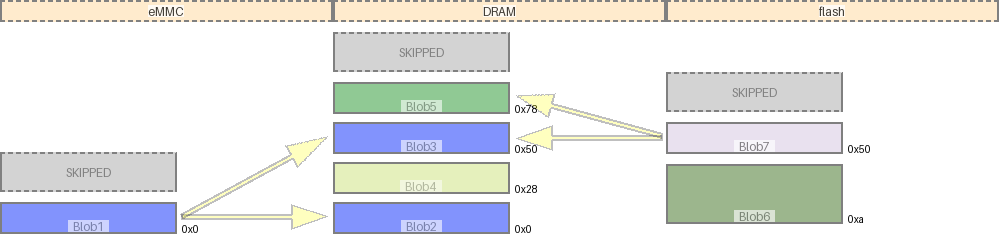
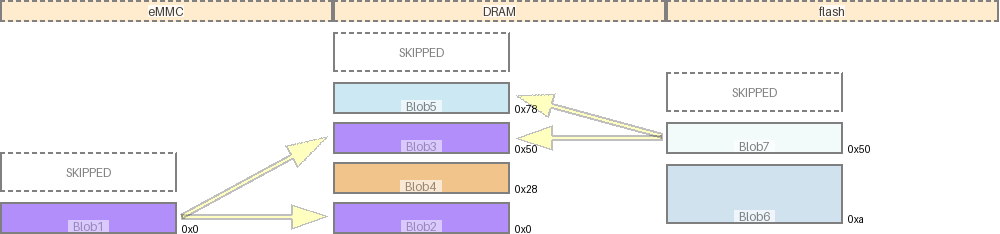
changed void default bgcolour to white

diff --git a/mm/metamodel.py b/mm/metamodel.py
@@ -113,7 +113,7 @@ class Diagram(ConfigParent):
     ] 
     void_fill_colour: Annotated[
         str,
-        pydantic.Field("lightgrey", description="Fill colour for the void region blocks")
+        pydantic.Field("white", description="Fill colour for the void region blocks")
     ]
     void_line_colour: Annotated[
         str,

diff --git a/doc/example/test_generate_doc_example_three_maps.md b/doc/example/test_generate_doc_example_three_maps.md
@@ -1,10 +1,10 @@
 ![memory map diagram](test_generate_doc_example_three_maps_cropped.png)
 |name|origin|size|free Space|collisions
 |:-|:-|:-|:-|:-|
-|<span style='color:(58, 160, 66, 199)'>Blob5</span>|0x78|0x20|0x350|{}|
-|<span style='color:(32, 63, 251, 178)'>Blob3</span>|0x50|0x20|0x8|{}|
-|<span style='color:(154, 118, 182, 42)'>Blob7</span>|0x50|0x20|0x378|{}|
-|<span style='color:(203, 225, 123, 253)'>Blob4</span>|0x28|0x20|0x8|{}|
-|<span style='color:(60, 111, 31, 132)'>Blob6</span>|0xa|0x3c|0xa|{}|
-|<span style='color:(32, 63, 251, 178)'>Blob1</span>|0x0|0x20|0x3c8|{}|
-|<span style='color:(32, 63, 251, 178)'>Blob2</span>|0x0|0x20|0x8|{}|
+|<span style='color:(29, 157, 204, 44)'>Blob5</span>|0x78|0x20|0x350|{}|
+|<span style='color:(106, 38, 244, 244)'>Blob3</span>|0x50|0x20|0x8|{}|
+|<span style='color:(26, 173, 171, 10)'>Blob7</span>|0x50|0x20|0x378|{}|
+|<span style='color:(225, 133, 14, 120)'>Blob4</span>|0x28|0x20|0x8|{}|
+|<span style='color:(55, 135, 186, 46)'>Blob6</span>|0xa|0x3c|0xa|{}|
+|<span style='color:(106, 38, 244, 244)'>Blob1</span>|0x0|0x20|0x3c8|{}|
+|<span style='color:(106, 38, 244, 244)'>Blob2</span>|0x0|0x20|0x8|{}|

diff --git a/doc/example/test_generate_doc_example_two_maps.md b/doc/example/test_generate_doc_example_two_maps.md
@@ -1,8 +1,8 @@
 ![memory map diagram](test_generate_doc_example_two_maps_cropped.png)
 |name|origin|size|free Space|collisions
 |:-|:-|:-|:-|:-|
-|<span style='color:(203, 225, 123, 253)'>Blob4</span>|0x100|0x10|0x2d8|{}|
-|<span style='color:(32, 63, 251, 178)'>Blob3</span>|0x50|0x10|0x388|{}|
-|<span style='color:(58, 160, 66, 199)'>Blob5</span>|0x30|0x10|0x10|{}|
-|<span style='color:(32, 63, 251, 178)'>Blob1</span>|0x10|0x10|0xe0|{}|
-|<span style='color:(32, 63, 251, 178)'>Blob2</span>|0x10|0x10|0x10|{}|
+|<span style='color:(225, 133, 14, 120)'>Blob4</span>|0x100|0x10|0x2d8|{}|
+|<span style='color:(106, 38, 244, 244)'>Blob3</span>|0x50|0x10|0x388|{}|
+|<span style='color:(29, 157, 204, 44)'>Blob5</span>|0x30|0x10|0x10|{}|
+|<span style='color:(106, 38, 244, 244)'>Blob1</span>|0x10|0x10|0xe0|{}|
+|<span style='color:(106, 38, 244, 244)'>Blob2</span>|0x10|0x10|0x10|{}|

diff --git a/doc/example/test_generate_doc_example_collisions.md b/doc/example/test_generate_doc_example_collisions.md
@@ -1,6 +1,6 @@
 ![memory map diagram](test_generate_doc_example_collisions_cropped.png)
 |name|origin|size|free Space|collisions
 |:-|:-|:-|:-|:-|
-|<span style='color:(93, 27, 120, 75)'>dtb</span>|0x90|0x30|0x328|{'rootfs': '0x90'}|
-|<span style='color:(194, 175, 66, 158)'>rootfs</span>|0x50|0x50|-0x10|{'kernel': '0x50', 'dtb': '0x90'}|
-|<span style='color:(206, 81, 126, 66)'>kernel</span>|0x10|0x60|-0x20|{'rootfs': '0x50'}|
+|<span style='color:(144, 104, 152, 78)'>dtb</span>|0x90|0x30|0x328|{'rootfs': '0x90'}|
+|<span style='color:(251, 144, 53, 51)'>rootfs</span>|0x50|0x50|-0x10|{'kernel': '0x50', 'dtb': '0x90'}|
+|<span style='color:(85, 170, 47, 186)'>kernel</span>|0x10|0x60|-0x20|{'rootfs': '0x50'}|

diff --git a/doc/example/test_generate_doc_example_normal.md b/doc/example/test_generate_doc_example_normal.md
@@ -1,6 +1,6 @@
 ![memory map diagram](test_generate_doc_example_normal_cropped.png)
 |name|origin|size|free Space|collisions
 |:-|:-|:-|:-|:-|
-|<span style='color:(93, 27, 120, 75)'>dtb</span>|0x190|0x30|0x228|{}|
-|<span style='color:(194, 175, 66, 158)'>rootfs</span>|0x50|0x30|0x110|{}|
-|<span style='color:(206, 81, 126, 66)'>kernel</span>|0x10|0x30|0x10|{}|
+|<span style='color:(144, 104, 152, 78)'>dtb</span>|0x190|0x30|0x228|{}|
+|<span style='color:(251, 144, 53, 51)'>rootfs</span>|0x50|0x30|0x110|{}|
+|<span style='color:(85, 170, 47, 186)'>kernel</span>|0x10|0x30|0x10|{}|
